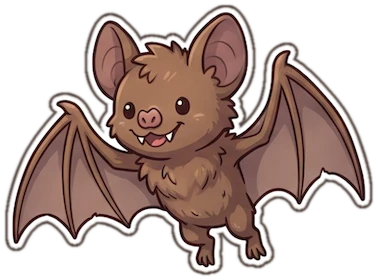
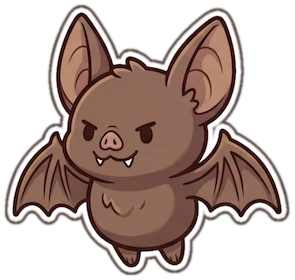
triangle: enemy stickers in three tiers, granite statues

diff --git a/public/triangle/main.js b/public/triangle/main.js
@@ -22362,7 +22362,6 @@ slashEdge.position.z = -0.01;
 slash.add(slashEdge);
 slash.position.z = 1;
 scene.add(slash);
-var kindColor = (k2) => k2 instanceof Boss ? 16740096 : k2 instanceof Charger ? 12986408 : k2 instanceof Shooter ? 9315498 : k2 instanceof Flyer ? 2541274 : k2 instanceof Bouncer ? 12634675 : 7162945;
 var roomGroup = new jl();
 var doorGroup = new jl();
 scene.add(roomGroup, doorGroup);
@@ -22406,9 +22405,16 @@ function sticker(path) {
   m.scale.set(HERO_H, HERO_H, 1);
   return m;
 }
-var STATUES = /* @__PURE__ */ new Set(["Knight"]);
-var ENEMY_ART = { Flyer: 2.1 };
-var enemyArt = (e) => ENEMY_ART[e.kind.constructor.name] ? `enemies/${e.kind.constructor.name.toLowerCase()}-${e.tier}` : null;
+var ENEMY_ART = {
+  Flyer: { wide: 1.26, tiers: true, flies: true },
+  Charger: { wide: 1.5, tiers: true },
+  Shooter: { wide: 1.85, tiers: true },
+  Bouncer: { wide: 1.35, tiers: true },
+  Boss: { wide: 1.15 },
+  Dummy: { wide: 1.25 }
+};
+var artOf = (e) => ENEMY_ART[e.kind.constructor.name];
+var enemyArt = (e) => `enemies/${e.kind.constructor.name.toLowerCase()}${artOf(e).tiers ? "-" + e.tier : ""}`;
 var HERO_PX = 280;
 var stickerSize = (image, tall) => image ? [tall * image.width / HERO_PX, tall * image.height / HERO_PX] : [tall, tall];
 var FACES_LEFT = /* @__PURE__ */ new Set(["Hunter", "Duelist", "Thief", "Cavalier", "Wizard", "Trickster", "Bandit", "Bard", "Warrior"]);
@@ -22534,20 +22540,18 @@ function syncRoom() {
     enemyMeshes = new Map(
       world.enemies.toArray().map((e) => {
         const [w2, h] = size3(e.kind);
-        const art = enemyArt(e);
-        const body2 = art ? sticker(art) : box3(w2, h, kindColor(e.kind));
-        const barW = w2 * (1 + 0.4 * (e.tier - 1));
+        const body2 = sticker(enemyArt(e));
+        const barW = w2 * (1 + 0.4 * (e.kind instanceof Boss ? 0 : e.tier - 1));
         const bar = box3(barW, 0.12, 6732650);
-        const pips = Array.from({ length: e.kind instanceof Boss ? 0 : e.tier - 1 }, () => box3(0.18, 0.18, GOLD2));
-        roomGroup.add(body2, bar, ...pips);
-        return [e.id, { body: body2, bar, pips, w: w2, barW, h, art: !!art, color: art ? 16777215 : kindColor(e.kind) }];
+        roomGroup.add(body2, bar);
+        return [e.id, { body: body2, bar, w: w2, barW, h }];
       })
     );
     const cells2 = world.tree.cells.toArray();
     npcMeshes = world.npcs.toArray().map((n) => {
       const statue = n.role instanceof Statue, cell = statue ? cells2[n.role.keystone] : null;
       const name3 = statue ? cell.name : "Mentor", lift = statue ? PEDESTAL_H : 0;
-      const hero = sticker(statue && STATUES.has(name3) ? `statues/${name3.toLowerCase()}` : `heroes/${name3.toLowerCase()}`);
+      const hero = sticker(`${statue ? "statues" : "heroes"}/${name3.toLowerCase()}`);
       hero.position.set(n.x, n.y + lift + HERO_H / 2, -0.6);
       roomGroup.add(hero);
       if (!statue) return { hero, n, statue, name: name3, y: hero.position.y };
@@ -22909,26 +22913,19 @@ function frame(now) {
       builtLevel = null;
       continue;
     }
-    const { body: body2, bar, pips, barW, w: w2, h, art, color } = enemyMeshes.get(e.id);
+    const { body: body2, bar, barW, w: w2, h } = enemyMeshes.get(e.id);
     body2.visible = bar.visible = e.hp > 0;
     const old = same ? was.enemies.get(e.id) : null;
     const ex = old ? between2(old.x, e.x, part) : e.x, ey = old ? between2(old.y, e.y, part) : e.y;
-    body2.position.set(ex, ey + h / 2, 0);
-    if (art) {
-      const img = body2.material.map.image, wide = w2 * ENEMY_ART[e.kind.constructor.name];
-      body2.scale.set(wide * (e.facing > 0 ? -1 : 1), img ? wide * img.height / img.width : wide, 1);
-      body2.position.z = 0.55;
-    }
+    const img = body2.material.map.image, wide = w2 * artOf(e).wide, tall = img ? wide * img.height / img.width : wide;
+    body2.scale.set(wide * (e.facing > 0 ? -1 : 1), tall, 1);
+    body2.position.set(ex, artOf(e).flies ? ey + h / 2 : ey + tall / 2, 0.55);
     const tell = telegraphing(e) && Math.floor(now / 50) % 2 === 0;
-    body2.material.color.set(e.flash > 0 ? art ? 16752029 : 16777215 : tell ? 16771899 : color);
+    body2.material.color.set(e.flash > 0 ? 16752029 : tell ? 16771899 : 16777215);
     if (!e.awake) body2.material.color.multiplyScalar(0.45);
     const frac = e.hp / e.max_hp;
     bar.scale.x = Math.max(frac, 1e-3);
     bar.position.set(ex - barW * (1 - frac) / 2, ey + h + 0.3, 0);
-    pips.forEach((pip, i) => {
-      pip.visible = e.hp > 0;
-      pip.position.set(ex + (i - (pips.length - 1) / 2) * 0.28, ey + h + 0.58, 0);
-    });
   }
   const back = DT * (1 - part);
   drawShots(world.projectiles.toArray().map((s) => ({ x: s.x - s.vx * back - shot_size / 2, y: s.y - s.vy * back - shot_size / 2, w: shot_size, h: shot_size })));
